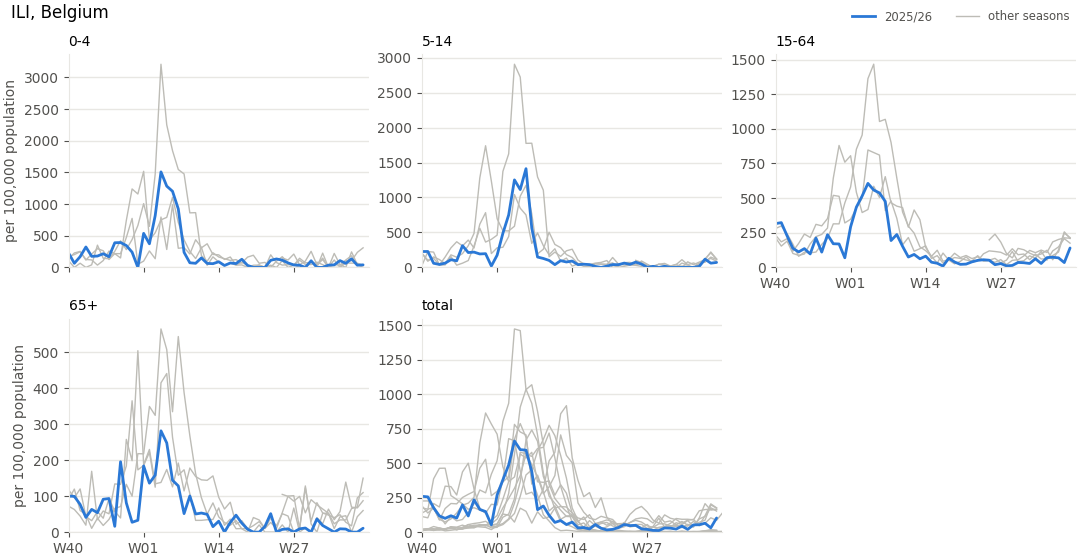
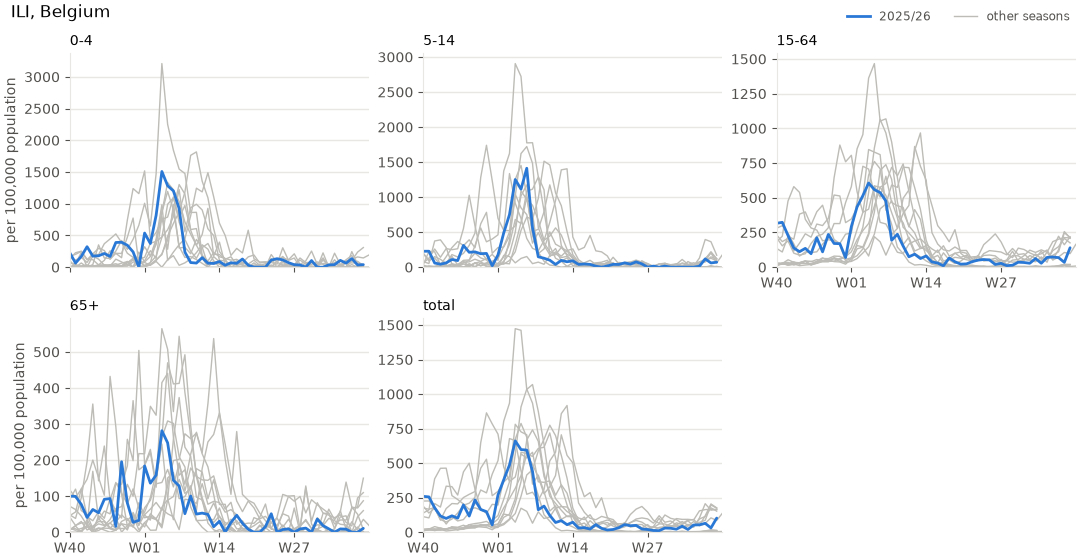
Update plotting and data documentation
- Modified the `plot_seasons` function call in `make_doc_figures.py` to include a highlight for the 2025/26 season.
- Updated the `facet_age` example in `plotting.md` to reflect the new highlight parameter.
- Adjusted positivity data ranges in `positivity.md` for accuracy.
- Corrected coverage data in `querying.md` to ensure consistency across age groups.
- Updated binary image files for plotting visualizations.

diff --git a/scripts/import_ecdc_history.py b/scripts/import_ecdc_history.py
@@ -84,9 +84,14 @@ def list_commits(session: requests.Session, file_name: str) -> list[str]:
     shas: list[str] = []
     page = 1
     while True:
+        params: dict[str, str | int] = {
+            "path": f"data/{file_name}",
+            "per_page": PAGE_SIZE,
+            "page": page,
+        }
         response = session.get(
             ECDC_COMMITS_URL.format(repo=ECDC_REPO),
-            params={"path": f"data/{file_name}", "per_page": PAGE_SIZE, "page": page},
+            params=params,
             headers=_api_headers(),
             timeout=TIMEOUT_SECONDS,
         )

diff --git a/scripts/make_doc_figures.py b/scripts/make_doc_figures.py
@@ -30,7 +30,7 @@ def main() -> None:
     ili = pv.get_ili(countries=["Belgium", "France", "Spain", "Malta"], age_groups="total")
     pv.plot_seasons(ili, facet="country").savefig(OUT / "facet_country.png", dpi=DPI)
 
-    pv.plot_seasons(pv.get_ili(countries="Belgium"), facet="age").savefig(
+    pv.plot_seasons(pv.get_ili(countries="Belgium"), facet="age", highlight="2025/26").savefig(
         OUT / "facet_age.png", dpi=DPI
     )
 

diff --git a/docs/querying.md b/docs/querying.md
@@ -178,9 +178,9 @@ pv.coverage("ili")
 
 ```text
    country country_code first_week last_week  n_weeks                      age_groups                       unit
-0  Austria           AT   2014-W40  2026-W14      315  [0-4, 5-14, 15-64, 65+, total]     per 100,000 population
-1  Belgium           BE   2014-W40  2026-W39      626  [0-4, 5-14, 15-64, 65+, total]     per 100,000 population
-2  Croatia           HR   2014-W40  2026-W39      426  [0-4, 5-14, 15-64, 65+, total]     per 100,000 population
+0  Austria           AT   2014-W40  2026-W40      316  [0-4, 5-14, 15-64, 65+, total]     per 100,000 population
+1  Belgium           BE   2014-W40  2026-W40      627  [0-4, 5-14, 15-64, 65+, total]     per 100,000 population
+2  Croatia           HR   2014-W40  2026-W40      427  [0-4, 5-14, 15-64, 65+, total]     per 100,000 population
 3   Cyprus           CY   2014-W40  2019-W25      242                         [total]  per 100,000 consultations
 ...
 ```

diff --git a/docs/positivity.md b/docs/positivity.md
@@ -111,7 +111,7 @@ pv.latest_week("positivity")
 
 ```text
          setting    pathogen country country_code first_week last_week  n_weeks unit
-3       hospital   Influenza  EU/EEA           EU   2022-W25  2026-W39      223    %
+3       hospital   Influenza  EU/EEA           EU   2020-W40  2026-W40      314    %
 ...
-62  primary care   Influenza   Italy           IT   2022-W34  2026-W09       93    %
+62  primary care   Influenza   Italy           IT   2014-W46  2026-W09      248    %
 ```

diff --git a/docs/plotting.md b/docs/plotting.md
@@ -69,7 +69,7 @@ season says so.
 `facet="age"` draws one panel per age group, in age order with `total` last:
 
 ```python
-pv.plot_seasons(pv.get_ili(countries="Belgium"), facet="age")
+pv.plot_seasons(pv.get_ili(countries="Belgium"), facet="age", highlight="2025/26")
 ```
 
 ![ILI in Belgium by season and age group](_static/plotting/facet_age.png)
